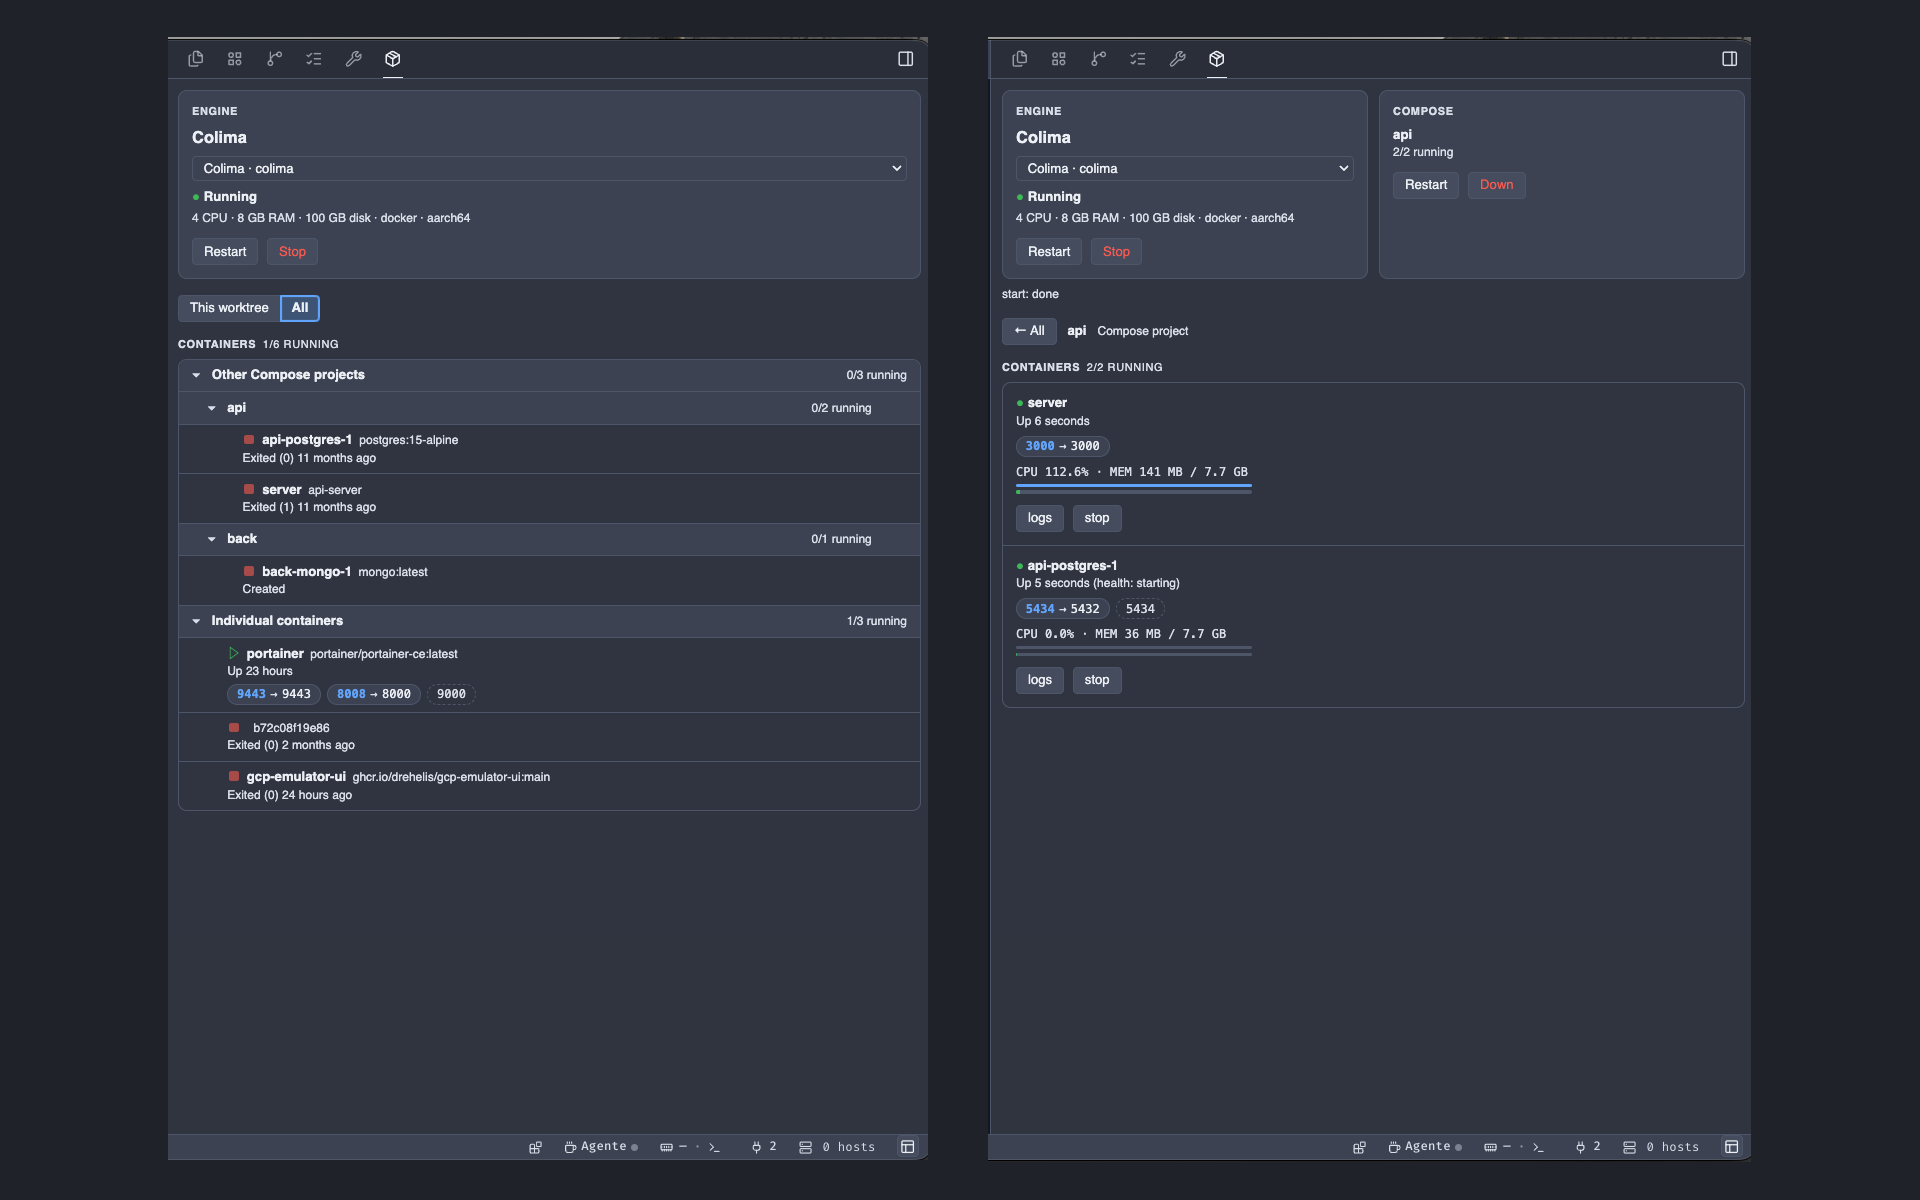
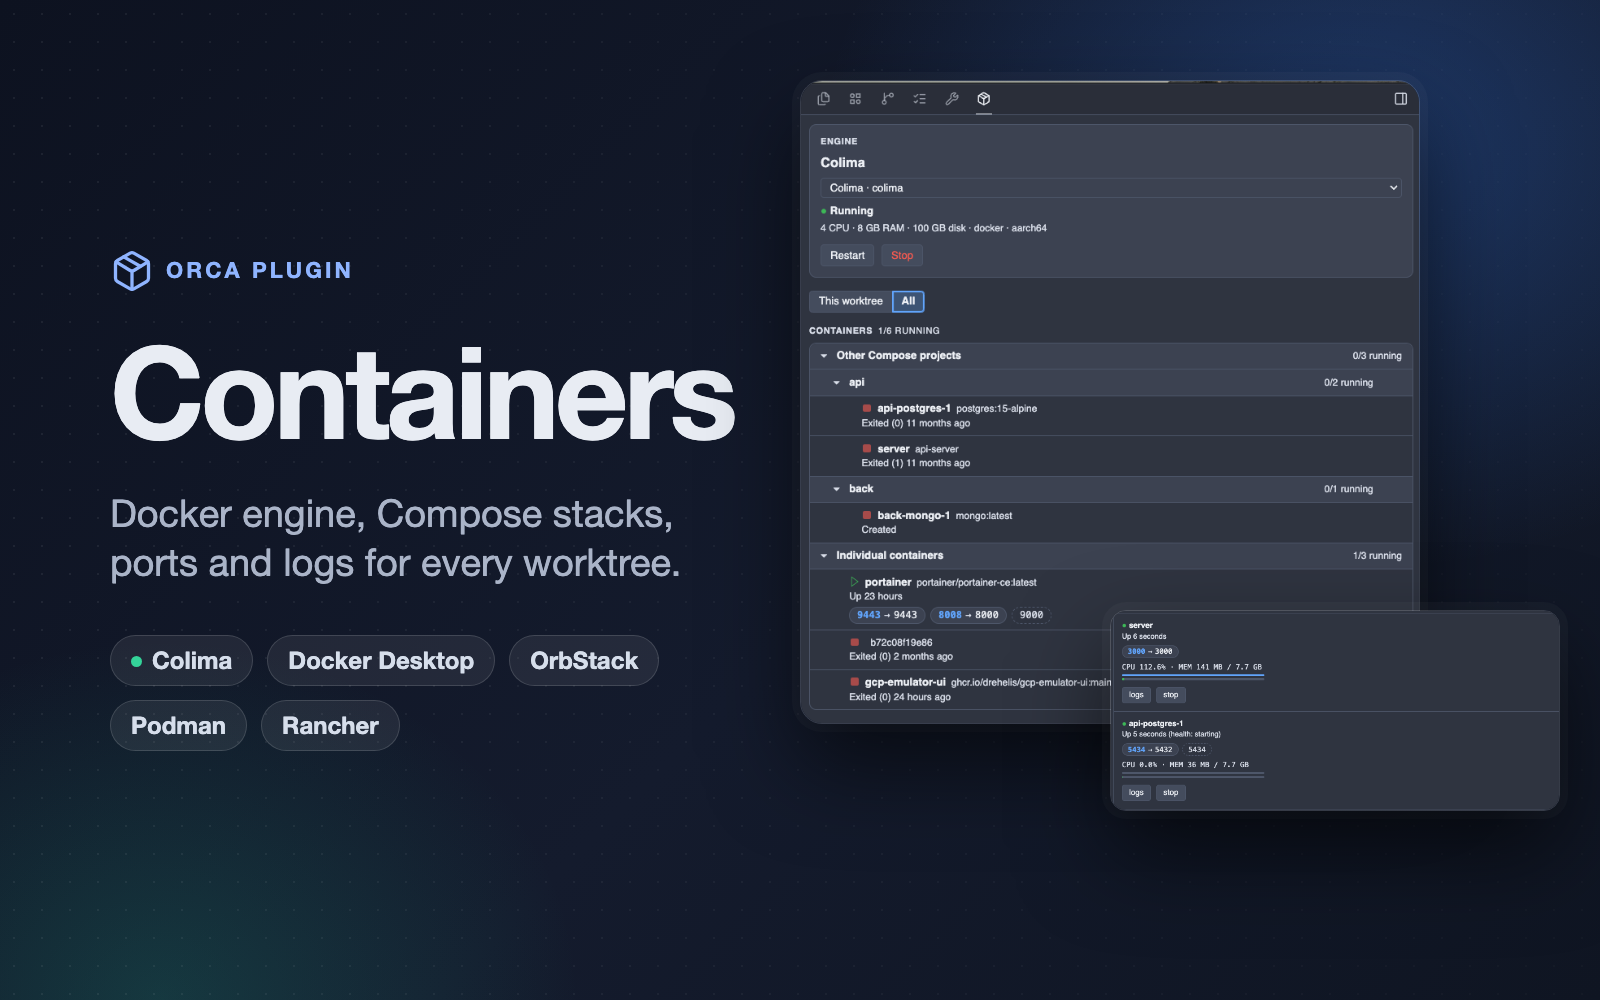
docs: redesign catalog cover image

diff --git a/README.md b/README.md
@@ -34,7 +34,7 @@ tested against a real CLI; the other engine controls follow each vendor's docume
 ## Install
 
 In Orca, open Settings → Plugins and search for **Containers**, or install it from Git with
-`https://github.com/rgarciade/orca-containers.git#v0.1.0`. Approve the plugin, then open the
+`https://github.com/rgarciade/orca-containers.git#v0.1.1`. Approve the plugin, then open the
 **Containers** panel (package icon) in the right sidebar.
 
 For development, add a clone of this repository under Settings → Plugins →
